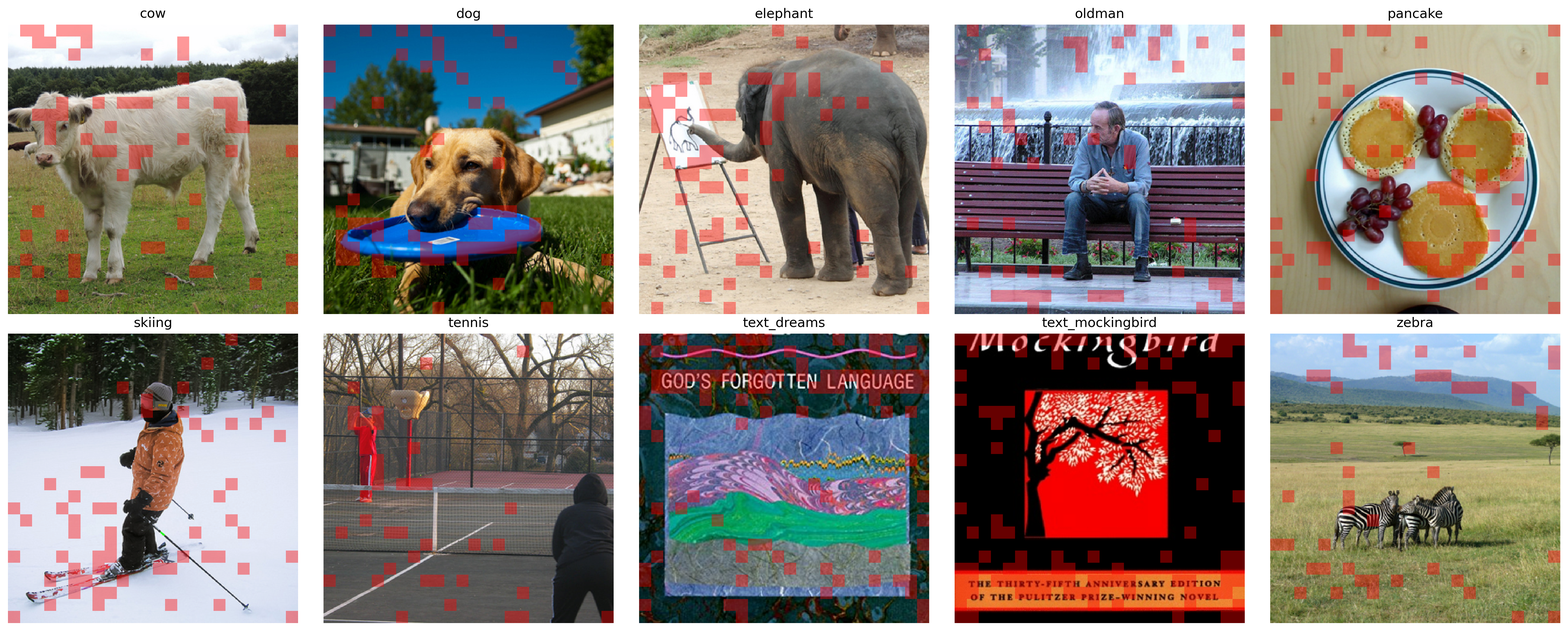
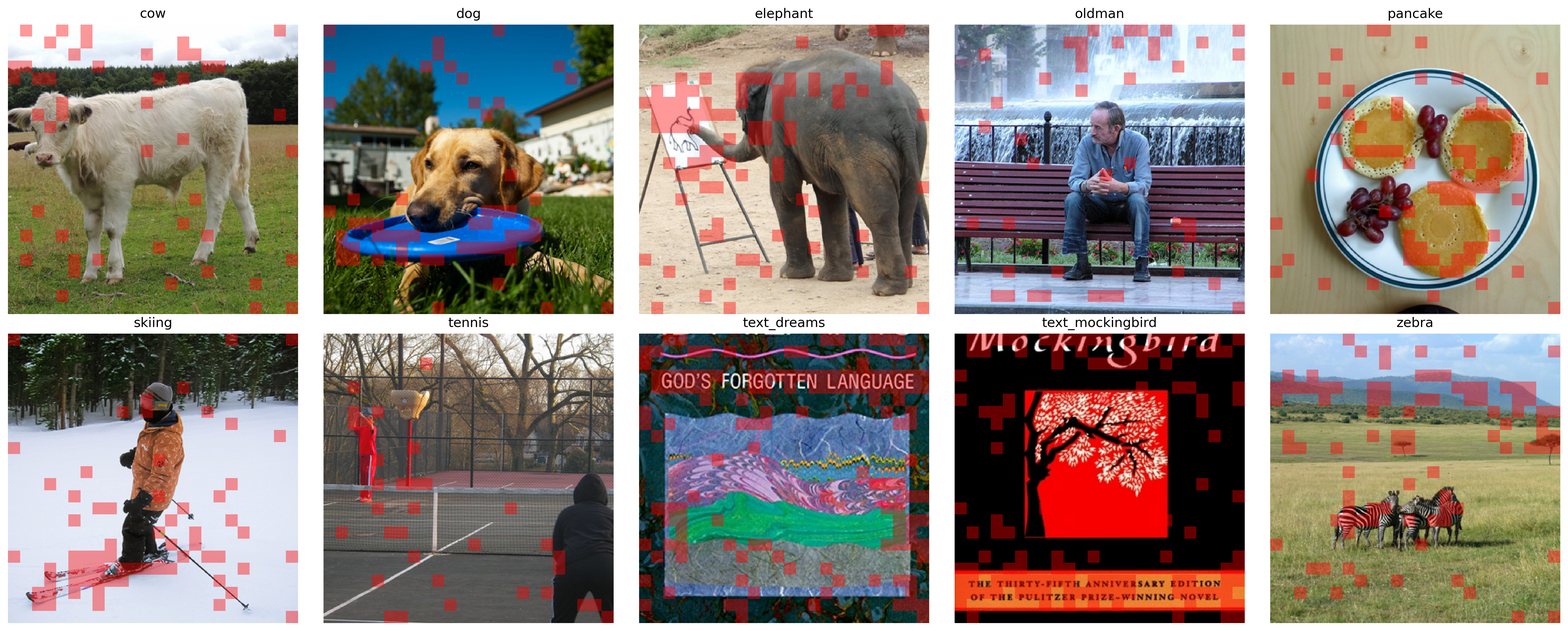
refactor image saved path for visualization

diff --git a/src/open_clip_local/BP.py b/src/open_clip_local/BP.py
@@ -39,45 +39,6 @@ def downsample(boundaries: torch.Tensor, hidden: torch.Tensor, null_group: torch
     shortened_hidden = torch.einsum('lbd,bls->sbd', hidden, weights)
     return shortened_hidden
 
-
-def downsample_with_indices(boundaries: torch.Tensor, hidden: torch.Tensor, null_group: torch.Tensor):
-    B, L = boundaries.shape
-    _, _, D = hidden.shape
-
-    boundaries = boundaries.to(dtype=torch.long).clone()  # [B, L]
-
-    # Number of segments per example and across the batch
-    seg_counts = boundaries.sum(dim=1)                    # [B]
-    S = int(seg_counts.max().item())
-
-    # If no segments at all in the batch, return a single null segment
-    # FIXME: there is a bug here
-    if S == 0:
-        # shape [1, B, D]
-        return null_group.expand(1, B, D).to(hidden.dtype).to(hidden.device)
-
-    # Build [B, L, S] template of segment indices 0..S-1
-    seg_ids = torch.arange(S, device=boundaries.device).view(1, 1, S)        # [1,1,S]
-    seg_ids = seg_ids.expand(B, L, S)                                        # [B,L,S]
-
-    # Segment index for each token position: 0,0,0,1,1,2,... (per-example)
-    # cumulative_num_boundaries counts boundaries up to and including pos i
-    cumulative = boundaries.cumsum(dim=1)                                    # [B,L]
-    real_segment_index = cumulative - boundaries                             # [B,L]
-
-    # One-hot membership mask: token at (b, l) belongs to segment k iff k == real_segment_index[b,l]
-    membership = (real_segment_index.unsqueeze(-1) == seg_ids).to(hidden.dtype)  # [B,L,S]
-
-    # Normalize over L so each segment’s weights sum to 1
-    denom = membership.sum(dim=1, keepdim=True).clamp_min(1e-9)              # [B,1,S]
-    weights = membership / denom                                             # [B,L,S]
-
-    # Weighted average over tokens -> [S, B, D]
-    shortened_hidden = torch.einsum('lbd,bls->sbd', hidden, weights)
-
-    rep_idx = membership.argmax(dim=1).to(torch.long) # NOTE: the key line
-    return shortened_hidden, rep_idx
-
 class BoundaryPredictor(nn.Module):
     def __init__(self, d_model, d_inner, activation_function,
                  temp, prior, bp_type, threshold=0.5, smart_init=False,
@@ -194,6 +155,67 @@ class BoundaryPredictor(nn.Module):
     https://github.com/goombalab/hnet/blob/main/hnet/modules/dc.py
 """
 
+
+class H_Net(BoundaryPredictor):
+    def __init__(
+        self, d_model, d_inner, activation_function,
+        temp, prior, bp_type, threshold=0.5, smart_init=False,
+        image_size=None, patch_size=None, embed_dim=None,
+        device=None, dtype=None
+    ):
+        super().__init__(
+            d_model=d_model,
+            d_inner=d_inner,
+            activation_function=activation_function,
+            temp=temp,
+            prior=prior,
+            bp_type=bp_type,
+            threshold=threshold,
+            smart_init=smart_init,
+            image_size=image_size,
+            patch_size=patch_size,
+            embed_dim=embed_dim,
+        )
+        factory_kwargs = {"device": device, "dtype": dtype}
+        self.q_proj_layer = nn.Linear(d_model, d_model, bias=False, **factory_kwargs)
+        self.k_proj_layer = nn.Linear(d_model, d_model, bias=False, **factory_kwargs)
+        eye_tensor = torch.eye(d_model, **factory_kwargs)
+        with torch.no_grad():
+            self.q_proj_layer.weight.copy_(eye_tensor)
+            self.k_proj_layer.weight.copy_(eye_tensor)
+        self.q_proj_layer.weight._no_reinit = True
+        self.k_proj_layer.weight._no_reinit = True
+
+    def _compute_keep_prob(self, hidden_states):
+        # hidden_states: [L, B, D]
+        hidden_states = hidden_states.transpose(0, 1)  # [B, L, D]
+        q = F.normalize(self.q_proj_layer(hidden_states[:, :-1]), dim=-1, eps=1e-6)
+        k = F.normalize(self.k_proj_layer(hidden_states[:, 1:]), dim=-1, eps=1e-6)
+        cos_sim = torch.einsum("bld,bld->bl", q, k).clamp(-1.0, 1.0)
+        keep_prob = ((1.0 - cos_sim) / 2.0).clamp(0.0, 1.0)  # [B, L-1]
+        return keep_prob
+
+    def forward(self, hidden_states, verbose=False):
+        keep_prob = self._compute_keep_prob(hidden_states)
+        bernoulli = torch.distributions.relaxed_bernoulli.RelaxedBernoulli(
+            temperature=self.temp,
+            probs=keep_prob,
+        )
+        soft_boundaries = bernoulli.rsample()                 # [B, L]
+        hard_boundaries = (soft_boundaries > self.threshold).float()
+        hard_boundaries = hard_boundaries - soft_boundaries.detach() + soft_boundaries
+        return soft_boundaries, hard_boundaries
+
+    def inference(self, hidden_states, verbose=False):
+        soft_boundaries = self._compute_keep_prob(hidden_states)  # [B, L]
+        hard_boundaries = (soft_boundaries > self.threshold).float()
+        return soft_boundaries, hard_boundaries
+
+
+##################################################################################
+##################################################################################
+
+
 class RoutingModule(nn.Module):
 
     def __init__(self, prior, d_model, device=None, dtype=None):
@@ -272,3 +294,43 @@ class RoutingModule(nn.Module):
         ) * (N / (N - 1.0))
 
         return loss_ratio.mean()
+
+
+
+def downsample_with_indices(boundaries: torch.Tensor, hidden: torch.Tensor, null_group: torch.Tensor):
+    B, L = boundaries.shape
+    _, _, D = hidden.shape
+
+    boundaries = boundaries.to(dtype=torch.long).clone()  # [B, L]
+
+    # Number of segments per example and across the batch
+    seg_counts = boundaries.sum(dim=1)                    # [B]
+    S = int(seg_counts.max().item())
+
+    # If no segments at all in the batch, return a single null segment
+    # FIXME: there is a bug here
+    if S == 0:
+        # shape [1, B, D]
+        return null_group.expand(1, B, D).to(hidden.dtype).to(hidden.device)
+
+    # Build [B, L, S] template of segment indices 0..S-1
+    seg_ids = torch.arange(S, device=boundaries.device).view(1, 1, S)        # [1,1,S]
+    seg_ids = seg_ids.expand(B, L, S)                                        # [B,L,S]
+
+    # Segment index for each token position: 0,0,0,1,1,2,... (per-example)
+    # cumulative_num_boundaries counts boundaries up to and including pos i
+    cumulative = boundaries.cumsum(dim=1)                                    # [B,L]
+    real_segment_index = cumulative - boundaries                             # [B,L]
+
+    # One-hot membership mask: token at (b, l) belongs to segment k iff k == real_segment_index[b,l]
+    membership = (real_segment_index.unsqueeze(-1) == seg_ids).to(hidden.dtype)  # [B,L,S]
+
+    # Normalize over L so each segment’s weights sum to 1
+    denom = membership.sum(dim=1, keepdim=True).clamp_min(1e-9)              # [B,1,S]
+    weights = membership / denom                                             # [B,L,S]
+
+    # Weighted average over tokens -> [S, B, D]
+    shortened_hidden = torch.einsum('lbd,bls->sbd', hidden, weights)
+
+    rep_idx = membership.argmax(dim=1).to(torch.long) # NOTE: the key line
+    return shortened_hidden, rep_idx

diff --git a/src/LLaVA_wrapper/llava_local/model/multimodal_encoder/clip_encoder.py b/src/LLaVA_wrapper/llava_local/model/multimodal_encoder/clip_encoder.py
@@ -43,6 +43,7 @@ class CLIPVisionTower(nn.Module):
             merge_strategy="ViT",
             compression_rate=None, # None or a float number
             drip_weight_path=None,
+            temperature=None,
             delay_load=False):
         super().__init__()
         self.is_loaded = False
@@ -50,6 +51,7 @@ class CLIPVisionTower(nn.Module):
         self.merge_strategy = merge_strategy
         self.compression_rate = compression_rate
         self.drip_weight_path = drip_weight_path
+        self.temperature = temperature
         self.select_layer = args.mm_vision_select_layer
         self.select_feature = getattr(args, 'mm_vision_select_feature', 'patch')
 
@@ -125,21 +127,22 @@ class CLIPVisionTower(nn.Module):
                 d_model=width,
                 d_inner=int(width * mlp_ratio),
                 activation_function="gelu",
-                temp=0.1,
+                temp=self.temperature,
                 prior=self.compression_rate,
                 bp_type='gumbel',
                 threshold=0.5,
                 smart_init=False
             )
             print(f"🐰🐰🐰 [INFO] Using DRIP merge strategy with compression rate {self.compression_rate}. This will on average keep {max(1, int(1/self.compression_rate))} tokens.")
-            
+            print(f"🌪🌪🌪 [INFO] sampling temperature during training: {self.temperature}")
+
             if self.drip_weight_path is not None:
                 missing, unexpected = self.load_drip_weights(self.drip_weight_path)
                 assert len(missing) == 0, f"Missing keys when loading DRIP weights: {missing}"
                 assert len(unexpected) == 0, f"Unexpected keys when loading DRIP weights: {unexpected}"
                 print(f"🦄🦄🦄 [INFO] Loaded DRIP weights from {self.drip_weight_path}")
             else:
-                print(f"🐴🐴🐴 [INFO] No DRIP weights provided, initializing DRIP modules from scratch.")
+                print(f"🐴🐴🐴 [INFO] No DRIP weights provided, initializing DRIP modules from scratch.")            
 
 
         elif self.merge_strategy == "Fixed":

diff --git a/src/LLaVA_wrapper/llava_local/model/multimodal_encoder/builder.py b/src/LLaVA_wrapper/llava_local/model/multimodal_encoder/builder.py
@@ -10,17 +10,18 @@ def build_vision_tower(vision_tower_cfg, **kwargs):
             "ViT": original model checkpoint
             "Fixed": fixed pooling
             "PruMerge": LLaVA-PruMerge
-            "DRIP": our design
+            "DRIP": our BP with MLP
+            "DRIP-H": our BP with H-Net
     """
 
     MERGE_STRATEGY = "DRIP"
     # 2x - 0.5, 4x - 0.25, 8x - 0.125, 10x - 0.1
     COMPRESSION_RATE = 0.25
+    TEMPERATURE = 0.2
     # DRIP_WEIGHT_PATH = "/fs/scratch/PAS2836/yusenpeng_checkpoint/LLaVA_7B_DRIP_4x_pretrain/drip.bin"
     # DRIP_WEIGHT_PATH = "/fs/scratch/PAS2836/yusenpeng_checkpoint/LLaVA_7B_DRIP_4x_finetune_train_lora/drip.bin"
-    
-
-    DRIP_WEIGHT_PATH = "/fs/scratch/PAS2836/yusenpeng_checkpoint/LLaVA_7B_DRIP_4x_pretrain_last_force/drip.bin"
+    # DRIP_WEIGHT_PATH = "/fs/scratch/PAS2836/yusenpeng_checkpoint/LLaVA_7B_DRIP_4x_pretrain_last_force/drip.bin"
+    DRIP_WEIGHT_PATH = "/fs/scratch/PAS2836/yusenpeng_checkpoint/LLaVA_7B_DRIP_4x_pretrain_temp02/checkpoint-170/drip.bin"
 
     ############################################################
 
@@ -37,6 +38,7 @@ def build_vision_tower(vision_tower_cfg, **kwargs):
                 merge_strategy=MERGE_STRATEGY,
                 compression_rate=COMPRESSION_RATE,
                 drip_weight_path=DRIP_WEIGHT_PATH,
+                temperature=TEMPERATURE,
                 **kwargs)
     else:
         raise ValueError(f'Unknown vision tower: {vision_tower}')

diff --git a/src/boundary_visual_LLaVA.py b/src/boundary_visual_LLaVA.py
@@ -217,9 +217,9 @@ def main():
 
     # DRIP_WEIGHT_PATH = "/fs/scratch/PAS2836/yusenpeng_checkpoint/LLaVA_7B_DRIP_4x_pretrain/drip.bin"
     # DRIP_WEIGHT_PATH = "/fs/scratch/PAS2836/yusenpeng_checkpoint/LLaVA_7B_DRIP_4x_finetune_train_lora/drip.bin"
+    # DRIP_WEIGHT_PATH = "/fs/scratch/PAS2836/yusenpeng_checkpoint/LLaVA_7B_DRIP_4x_pretrain_last_force/drip.bin" 
+    DRIP_WEIGHT_PATH = "/fs/scratch/PAS2836/yusenpeng_checkpoint/LLaVA_7B_DRIP_4x_pretrain_temp02/checkpoint-220/drip.bin"
 
-    DRIP_WEIGHT_PATH = "/fs/scratch/PAS2836/yusenpeng_checkpoint/LLaVA_7B_DRIP_4x_pretrain_last_force/drip.bin" 
-    
     COMPRESSION_RATE = 0.25
 
 
@@ -256,10 +256,13 @@ def main():
         title_fontsize=12,
     )
 
+
+    split = DRIP_WEIGHT_PATH.split("/")[5]
+    save_path = f"/users/PAS2912/yusenpeng/DRIP/src/boundary_vis/LLaVA_results/{split}.png"
     visualize_10_images_2x5(
         model=model,
         image_paths=image_paths,
-        save_path="/users/PAS2912/yusenpeng/DRIP/src/boundary_vis/LLaVA_results/llava_drip_boundaries_2x5.png",
+        save_path=save_path,
         alpha=0.4,
         titles=None,
         verbose=False,
